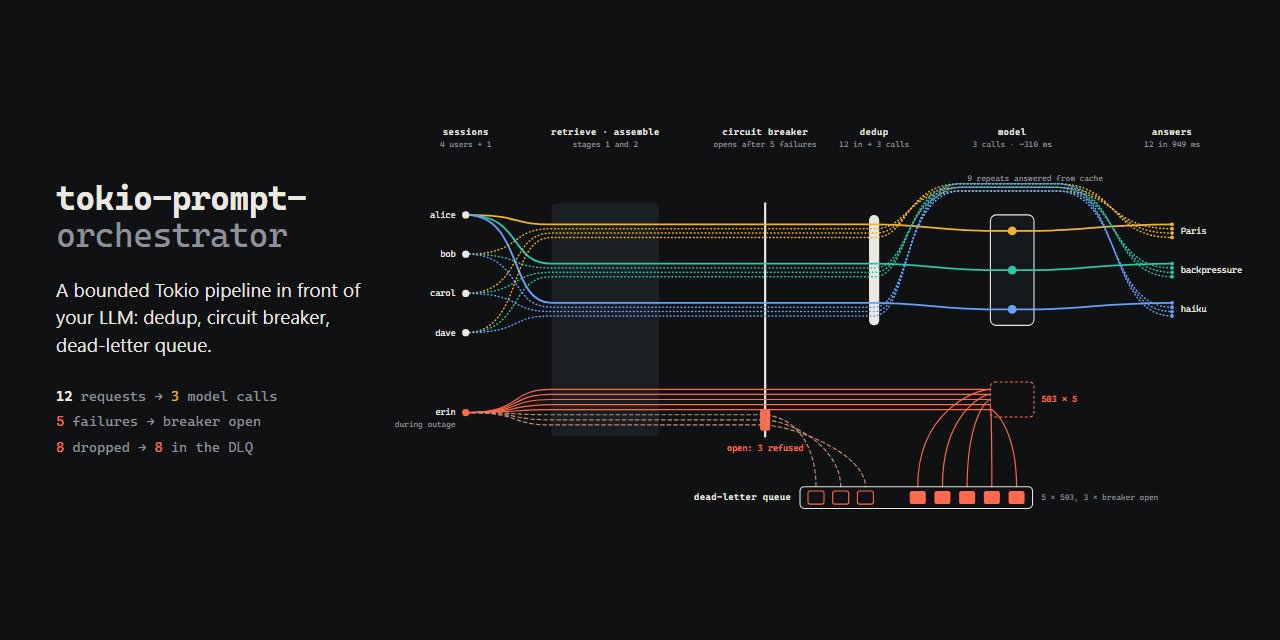
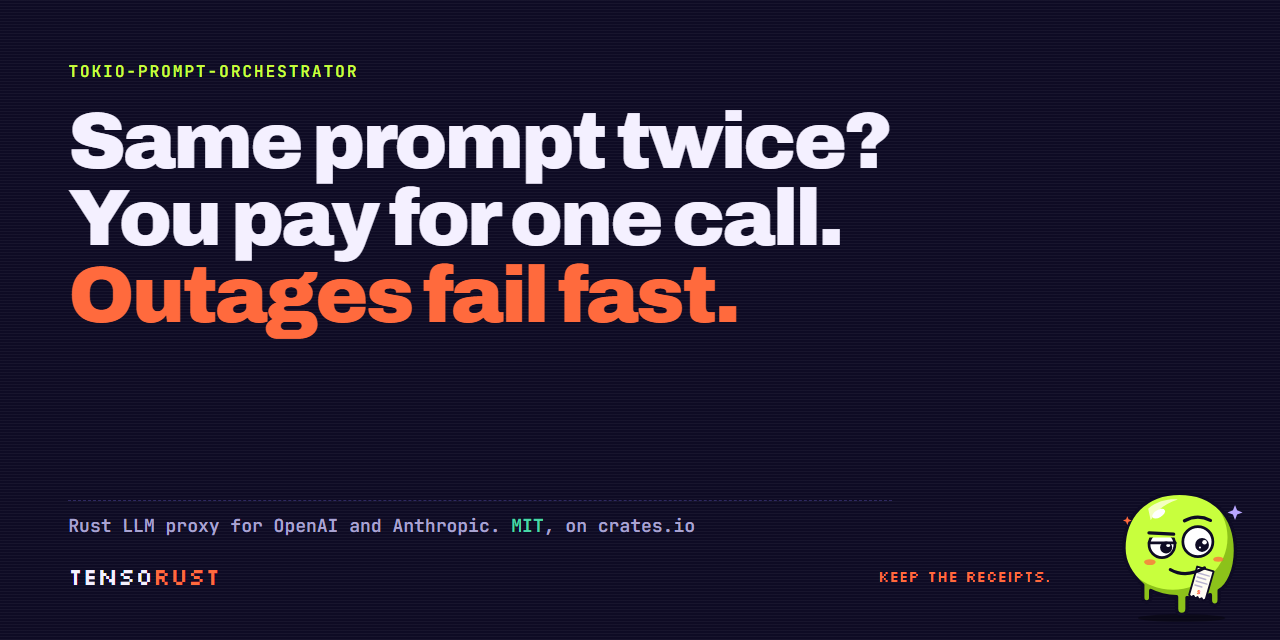
2.0.2: rustls security update, CI green on Rust 1.99, GitHub as repository
- Cargo.lock: rustls 0.23.45 -> 0.23.46 (RUSTSEC-2026-0346, -0347, -0348, -0349).
- Clean clippy and rustdoc on Rust 1.99 with -D warnings: is_multiple_of,
  fetch_update kept behind allow(deprecated) for the 1.88 MSRV, redundant
  intra-doc links, feature-gated dead code in the orchestrator binary.
- Cargo.toml: repository points at GitHub; cargo binstall URLs name the GitLab
  releases directly.
- README: CI and MSRV badges, GitHub/GitLab line. New V2 social preview image.

diff --git a/src/tui/metrics.rs b/src/tui/metrics.rs
@@ -300,7 +300,7 @@ impl MockMetrics {
         match phase_tick {
             // Warmup: occasional info
             0..=29 => {
-                if tick % 5 == 0 {
+                if tick.is_multiple_of(5) {
                     app.push_log(LogEntry {
                         timestamp: ts,
                         level: LogLevel::Info,
@@ -315,7 +315,7 @@ impl MockMetrics {
             }
             // Load ramp: more frequent info + occasional warn
             30..=44 => {
-                if tick % 3 == 0 {
+                if tick.is_multiple_of(3) {
                     app.push_log(LogEntry {
                         timestamp: ts.clone(),
                         level: LogLevel::Info,
@@ -338,7 +338,7 @@ impl MockMetrics {
             }
             // Failure: errors + warns
             45..=59 => {
-                if tick % 3 == 0 {
+                if tick.is_multiple_of(3) {
                     app.push_log(LogEntry {
                         timestamp: ts.clone(),
                         level: LogLevel::Error,
@@ -354,7 +354,7 @@ impl MockMetrics {
                         fields: "worker=llama.cpp failures=5 threshold=5".to_string(),
                     });
                 }
-                if tick % 5 == 0 {
+                if tick.is_multiple_of(5) {
                     app.push_log(LogEntry {
                         timestamp: ts,
                         level: LogLevel::Warn,
@@ -376,7 +376,7 @@ impl MockMetrics {
                         fields: "worker=llama.cpp probing=true".to_string(),
                     });
                 }
-                if tick % 5 == 0 {
+                if tick.is_multiple_of(5) {
                     app.push_log(LogEntry {
                         timestamp: ts,
                         level: LogLevel::Debug,
@@ -395,7 +395,7 @@ impl MockMetrics {
                         fields: "worker=llama.cpp recovered=true".to_string(),
                     });
                 }
-                if tick % 4 == 0 {
+                if tick.is_multiple_of(4) {
                     app.push_log(LogEntry {
                         timestamp: ts,
                         level: LogLevel::Info,
@@ -410,7 +410,7 @@ impl MockMetrics {
             }
             // Steady: nominal info
             _ => {
-                if tick % 4 == 0 {
+                if tick.is_multiple_of(4) {
                     let messages = [
                         (
                             "Request deduped",

diff --git a/src/bin/dashboard.rs b/src/bin/dashboard.rs
@@ -687,7 +687,7 @@ impl MockDashboardState {
 
         let entry = match phase_tick {
             0..=29 => {
-                if tick % 3 == 0 {
+                if tick.is_multiple_of(3) {
                     Some(RecentRequest {
                         timestamp: ts,
                         session_id: format!("user-{}", tick % 100),
@@ -704,7 +704,7 @@ impl MockDashboardState {
                 session_id: format!("user-{}", tick % 200),
                 stage: stages[stage_idx].to_string(),
                 latency_ms: self.stage_latencies[stage_idx],
-                status: if tick % 5 == 0 {
+                status: if tick.is_multiple_of(5) {
                     "deduped".to_string()
                 } else {
                     "ok".to_string()
@@ -715,7 +715,7 @@ impl MockDashboardState {
                 session_id: format!("user-{}", tick % 50),
                 stage: "inference".to_string(),
                 latency_ms: self.stage_latencies[2],
-                status: if tick % 3 == 0 {
+                status: if tick.is_multiple_of(3) {
                     "error".to_string()
                 } else {
                     "shed".to_string()
@@ -736,13 +736,13 @@ impl MockDashboardState {
                 status: "ok".to_string(),
             }),
             _ => {
-                if tick % 2 == 0 {
+                if tick.is_multiple_of(2) {
                     Some(RecentRequest {
                         timestamp: ts,
                         session_id: format!("user-{}", tick % 500),
                         stage: stages[stage_idx].to_string(),
                         latency_ms: self.stage_latencies[stage_idx],
-                        status: if tick % 4 == 0 {
+                        status: if tick.is_multiple_of(4) {
                             "deduped".to_string()
                         } else {
                             "ok".to_string()

diff --git a/src/main.rs b/src/main.rs
@@ -361,6 +361,8 @@ struct ResolvedConfig {
     /// Retries for transient model errors (0 = off).
     retries: u32,
     docs: Option<std::path::PathBuf>,
+    // Read only by the web server, so unused in builds without `web-api`.
+    #[cfg_attr(not(feature = "web-api"), allow(dead_code))]
     semantic_dedup: Option<f32>,
     no_web: bool,
 }
@@ -985,6 +987,7 @@ fn load_docs(
 
 /// Load the local embedding model for `--semantic-dedup`.
 #[cfg(feature = "fastembed")]
+#[cfg_attr(not(feature = "web-api"), allow(dead_code))]
 fn load_embedder() -> Result<std::sync::Arc<dyn tokio_prompt_orchestrator::Embedder>, String> {
     println!("  Loading the embedding model for --semantic-dedup (128 MB, downloaded once)...");
     tokio_prompt_orchestrator::integrations::FastEmbedder::try_default()
@@ -993,6 +996,7 @@ fn load_embedder() -> Result<std::sync::Arc<dyn tokio_prompt_orchestrator::Embed
 }
 
 #[cfg(not(feature = "fastembed"))]
+#[cfg_attr(not(feature = "web-api"), allow(dead_code))]
 fn load_embedder() -> Result<std::sync::Arc<dyn tokio_prompt_orchestrator::Embedder>, String> {
     Err("This build has no --semantic-dedup support. Install with: cargo install tokio-prompt-orchestrator --features web-api,fastembed".to_string())
 }

diff --git a/src/intelligence/semantic_dedup.rs b/src/intelligence/semantic_dedup.rs
@@ -1,7 +1,7 @@
 #![cfg(feature = "intelligence")]
 //! Backward-compatible re-export of the lexical deduplication module.
 //!
-//! This module has been superseded by [`lexical_dedup`](crate::intelligence::lexical_dedup).  All public
+//! This module has been superseded by [`intelligence::lexical_dedup`](crate::intelligence::lexical_dedup).  All public
 //! types are re-exported here so that existing `use intelligence::semantic_dedup::*`
 //! imports continue to compile without changes.
 //!

diff --git a/src/rate_limiter.rs b/src/rate_limiter.rs
@@ -89,6 +89,9 @@ impl TokenBucket {
     /// Refills the bucket based on elapsed time first, then deducts `n`.
     /// Returns `true` if the tokens were available and consumed, `false`
     /// otherwise (bucket remains unchanged on failure).
+    // `fetch_update` is deprecated in favour of `try_update` on newer Rust,
+    // which the 1.88 MSRV does not have yet.
+    #[allow(deprecated)]
     pub fn try_consume(&self, n: u64) -> bool {
         // Refill
         let elapsed_ms = {

diff --git a/src/intelligence/lexical_dedup.rs b/src/intelligence/lexical_dedup.rs
@@ -82,9 +82,6 @@
 //! - **Thread safety**: the index is protected by an `Arc<RwLock<Vec<_>>>`.
 //!   Concurrent lookups (read path) do not block each other; inserts briefly
 //!   acquire an exclusive write lock.
-//!
-//! [`LexicalDedup::lookup_jaccard`]: LexicalDedup::lookup_jaccard
-//! [`LexicalDedup::lookup`]: LexicalDedup::lookup
 
 use serde::{Deserialize, Serialize};
 use std::collections::hash_map::DefaultHasher;

diff --git a/src/self_improve.rs b/src/self_improve.rs
@@ -289,7 +289,7 @@ impl SelfImprovingLoop {
                 }
 
                 // 6. Periodically snapshot current configuration
-                if tick % cfg.snapshot_every_n_ticks == 0 {
+                if tick.is_multiple_of(cfg.snapshot_every_n_ticks) {
                     Self::step_snapshot(&handles, &snap);
                 }
 

diff --git a/src/tui/widgets/dedup.rs b/src/tui/widgets/dedup.rs
@@ -32,7 +32,7 @@ pub fn format_number(n: u64) -> String {
     }
     let mut result = String::with_capacity(len + len / 3);
     for (i, ch) in s.chars().enumerate() {
-        if i > 0 && (len - i) % 3 == 0 {
+        if i > 0 && (len - i).is_multiple_of(3) {
             result.push(',');
         }
         result.push(ch);

diff --git a/src/integrations/tower_adapters.rs b/src/integrations/tower_adapters.rs
@@ -1,4 +1,4 @@
-//! Adapters between [`ModelWorker`] and [`tower::Service`](tower::Service).
+//! Adapters between [`ModelWorker`] and [`tower::Service`].
 //!
 //! tower is the middleware layer most of async Rust is built on (axum,
 //! tonic, reqwest's ecosystem). These two types let the orchestrator and

diff --git a/src/scheduler.rs b/src/scheduler.rs
@@ -119,7 +119,7 @@ impl CronField {
     fn matches(&self, value: u32) -> bool {
         match self {
             Self::Any => true,
-            Self::Every(n) => value % n == 0,
+            Self::Every(n) => value.is_multiple_of(*n),
             Self::Exact(v) => *v == value,
         }
     }

diff --git a/src/intelligence/mod.rs b/src/intelligence/mod.rs
@@ -10,5 +10,5 @@ pub mod prompt_opt;
 pub mod quality;
 pub mod router;
 /// Legacy module re-exported for backward compatibility.
-/// Use [`lexical_dedup`](crate::intelligence::lexical_dedup) instead.
+/// Use [`lexical_dedup`] instead.
 pub mod semantic_dedup;

diff --git a/README.md b/README.md
@@ -11,6 +11,8 @@ For developers who call an LLM API from an app, an agent or a script and want it
   <a href="https://docs.rs/tokio-prompt-orchestrator"><img alt="docs.rs" src="https://img.shields.io/docsrs/tokio-prompt-orchestrator"></a>
   <a href="https://gitlab.com/mattbusel/tokio-prompt-orchestrator/-/releases"><img alt="release" src="https://img.shields.io/gitlab/v/release/mattbusel%2Ftokio-prompt-orchestrator"></a>
   <a href="LICENSE"><img alt="MIT" src="https://img.shields.io/badge/license-MIT-blue.svg"></a>
+  <a href="https://github.com/Mattbusel/tokio-prompt-orchestrator/actions/workflows/ci.yml"><img alt="CI" src="https://github.com/Mattbusel/tokio-prompt-orchestrator/actions/workflows/ci.yml/badge.svg"></a>
+  <img alt="MSRV 1.88" src="https://img.shields.io/badge/MSRV-1.88-blue.svg">
 </p>
 
 <img alt="Recorded session. Part 1: cargo run --example llm_pipeline answers 12 requests with 3 model calls, then during a simulated outage 5 calls fail with 503, the circuit breaker opens and the next 3 fail fast. Part 2: orchestrator --provider echo answers a question typed at its prompt while a second terminal sends a prompt with curl, fetches the result and reads /health." src="assets/demo.gif" width="100%">
@@ -295,6 +297,8 @@ With no features the library is the pipeline, the workers and the resilience par
 | [docs.rs](https://docs.rs/tokio-prompt-orchestrator) | Full Rust API |
 
 Contributions welcome: see [CONTRIBUTING.md](CONTRIBUTING.md). MIT licensed, see [LICENSE](LICENSE).
+
+Source, issues and stars: [GitHub](https://github.com/Mattbusel/tokio-prompt-orchestrator). Mirror and release downloads: [GitLab](https://gitlab.com/mattbusel/tokio-prompt-orchestrator). More open-source Rust from the same author: [tensorust.com/open-source](https://tensorust.com/open-source/).
 
 ## Hire the author
 
